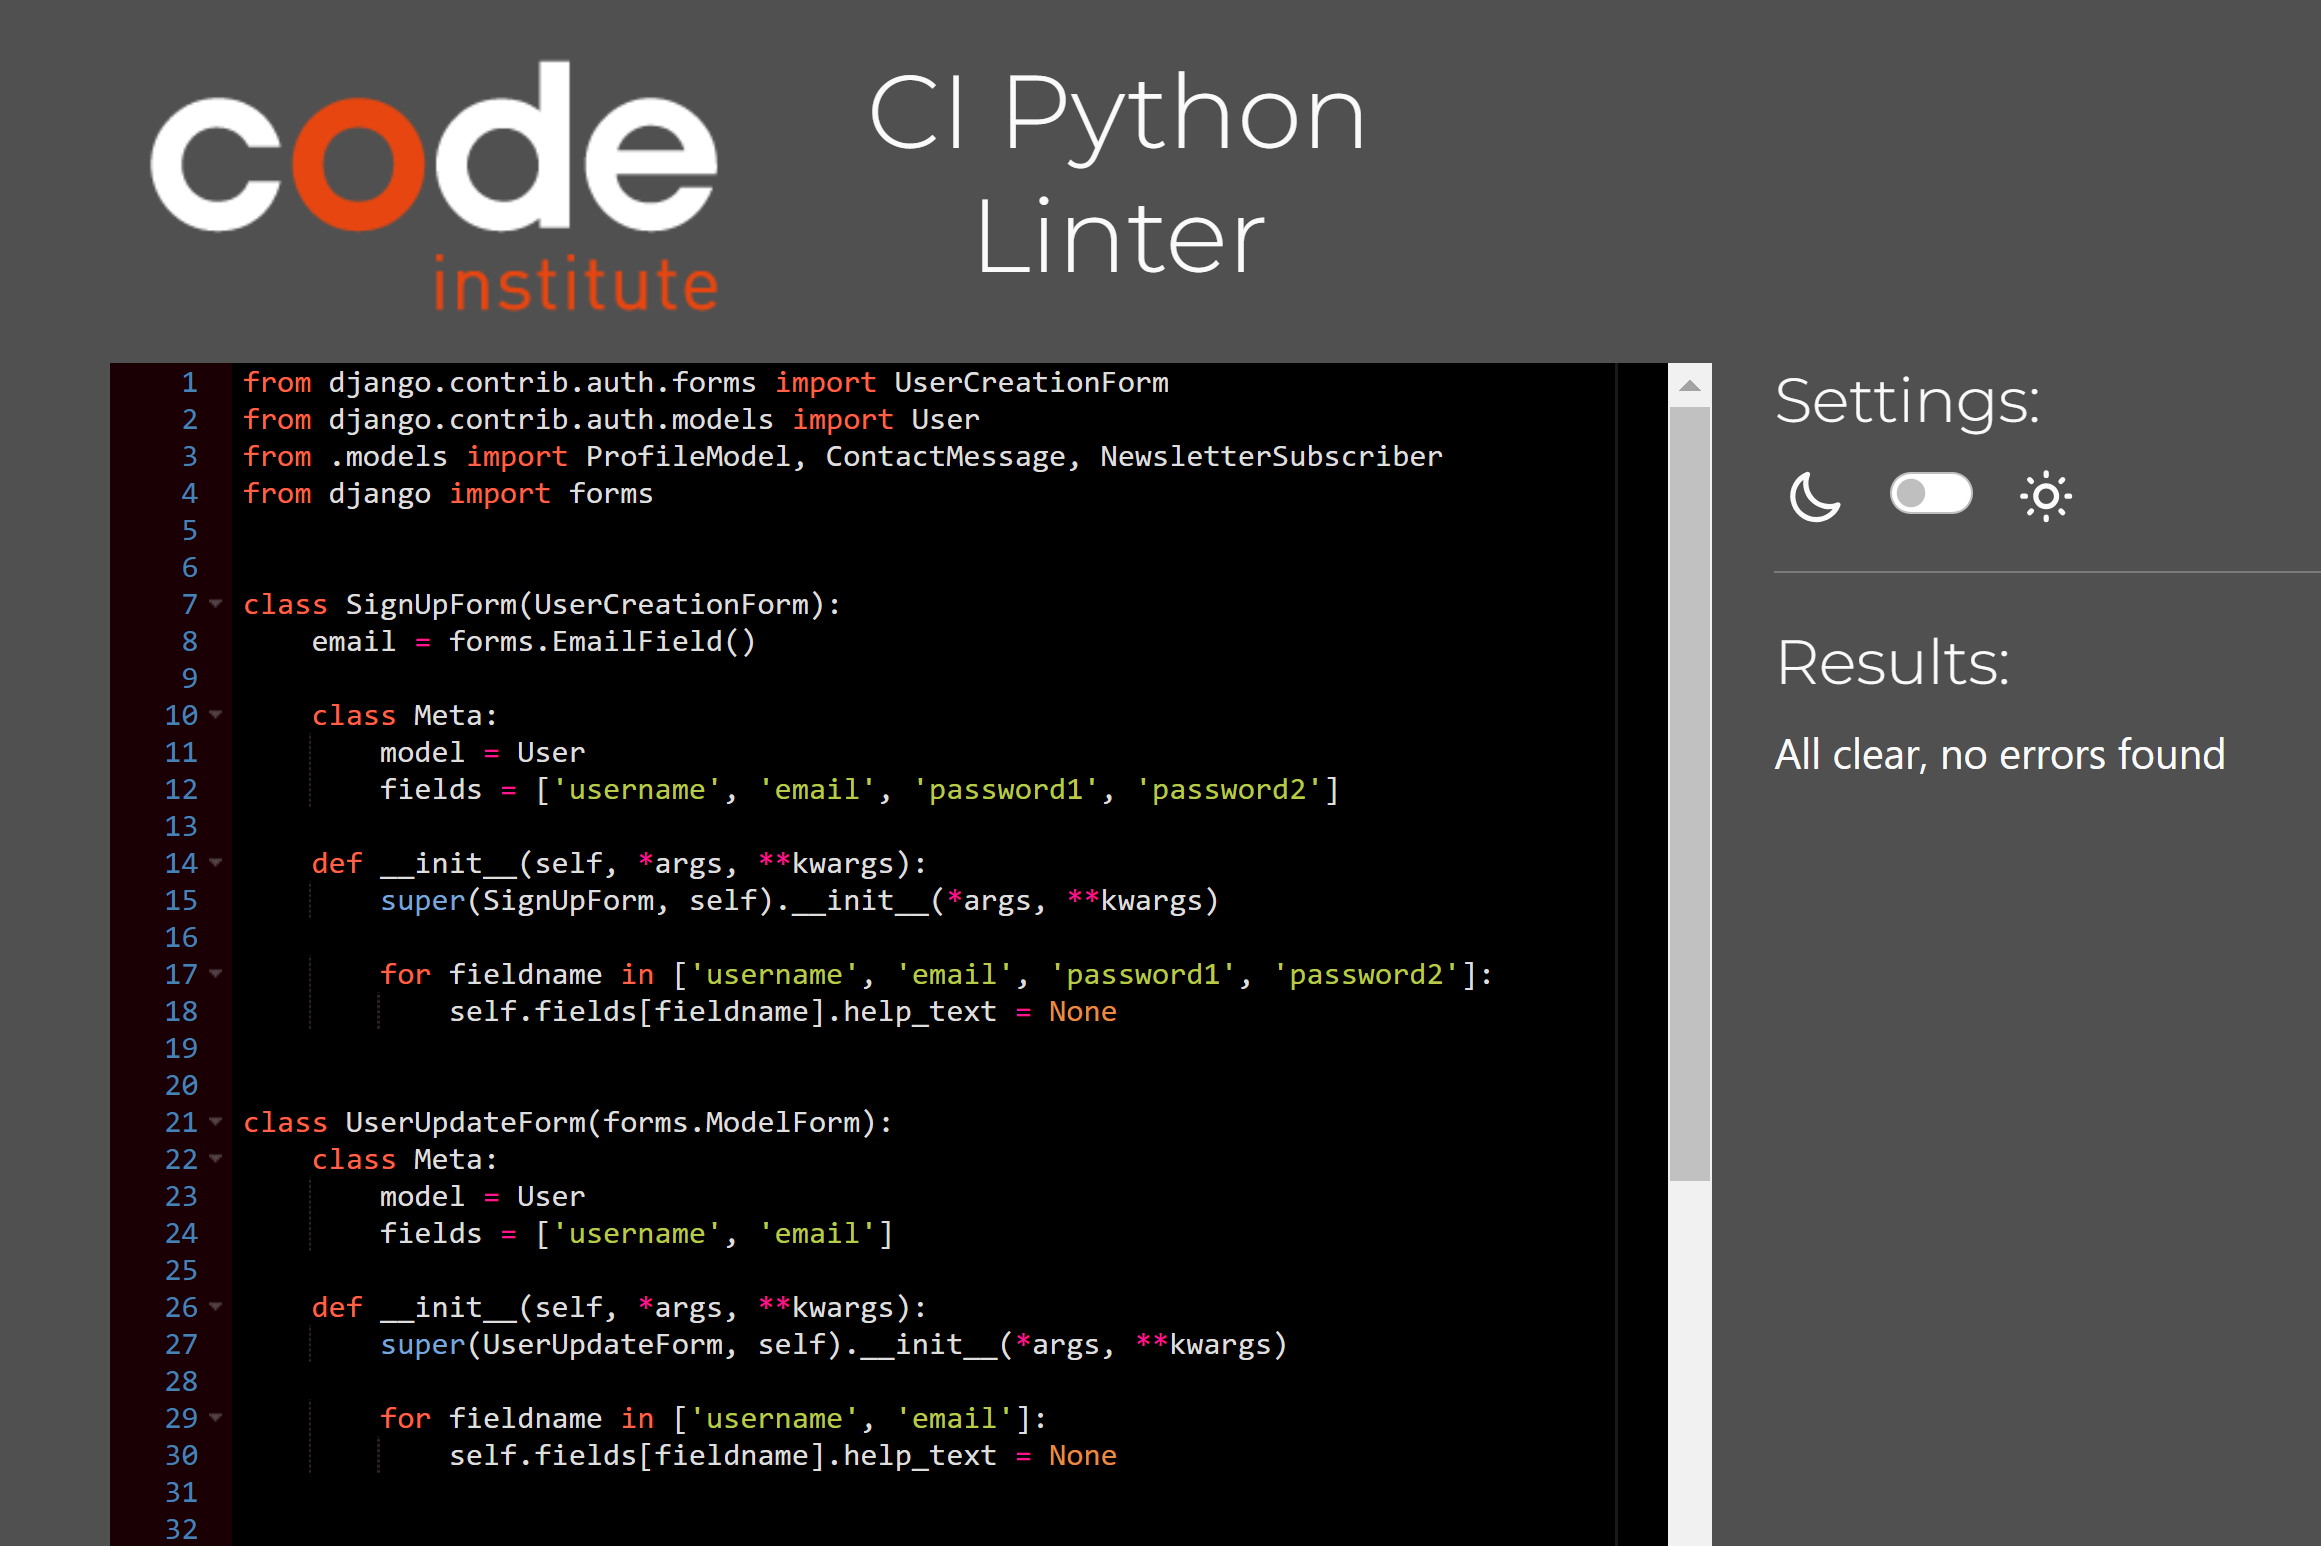
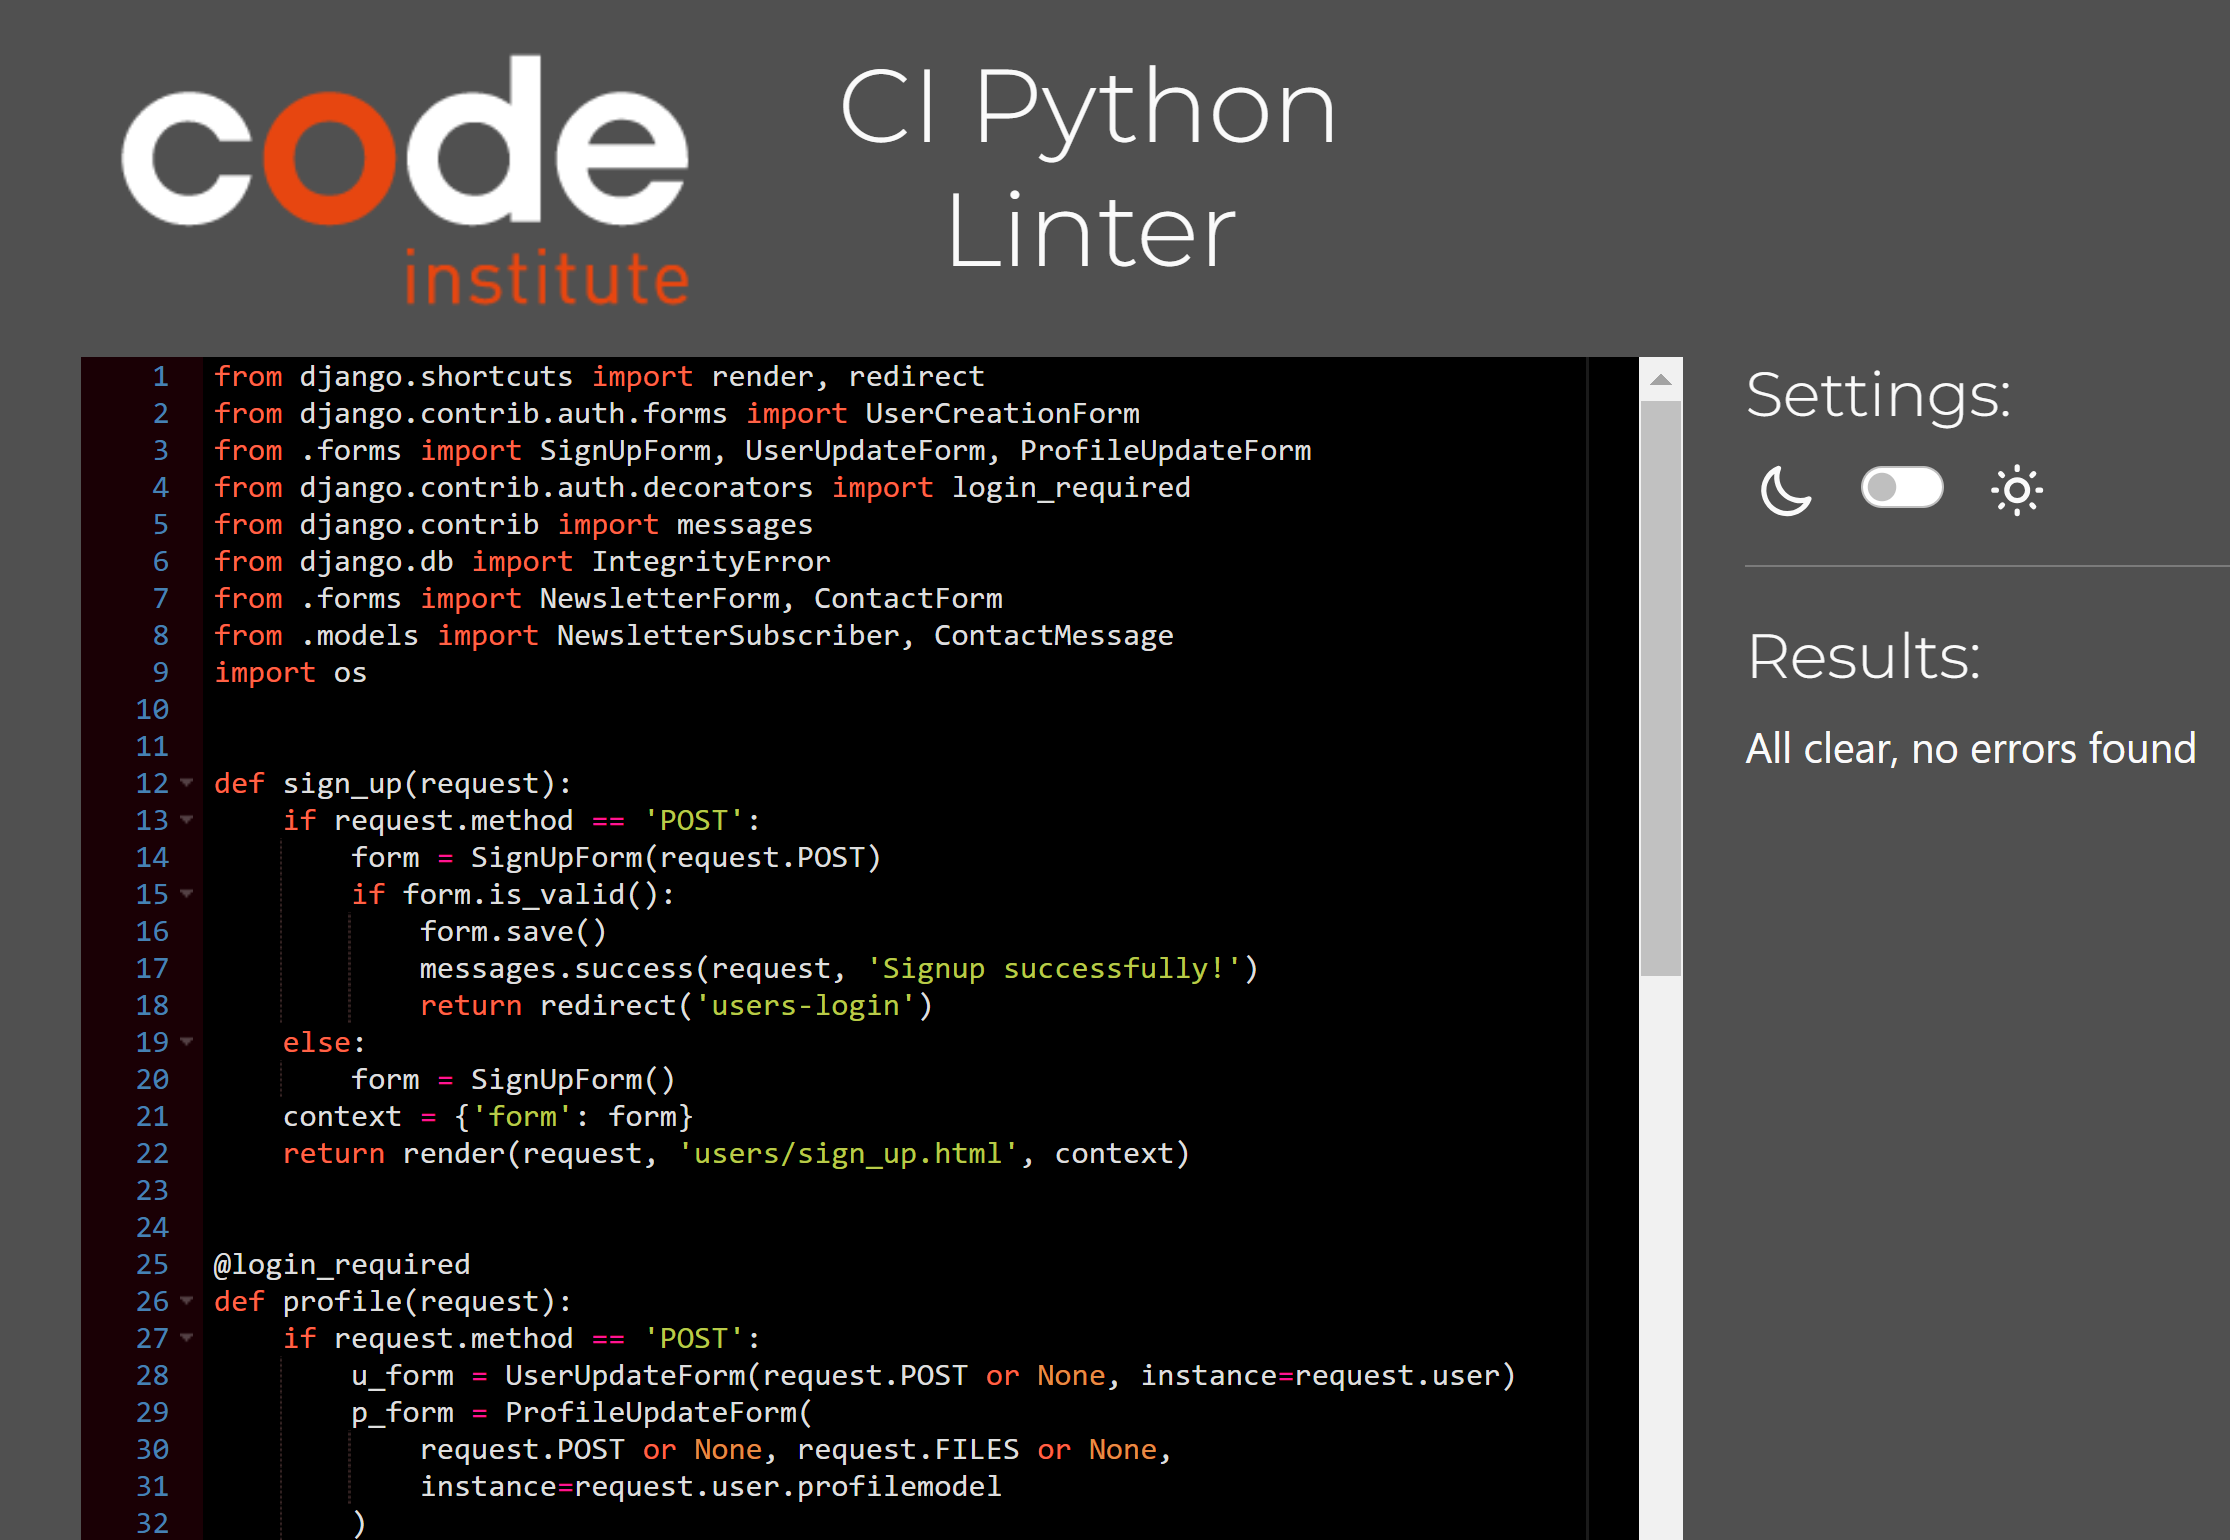
Add python testing screenshots to README

diff --git a/README.md b/README.md
@@ -261,20 +261,20 @@ I have used the recommended [PEP8 CI Python Linter](https://pep8ci.herokuapp.com
 
 | Directory | File | CI URL | Screenshot | Notes |
 | --- | --- | --- | --- | --- |
-| blog | admin.py | [PEP8 CI](https://pep8ci.herokuapp.com/https://raw.githubusercontent.com/fgit-24/Django-Blog-Project/main/blog/admin.py) | ![screenshot](documentation/validation/path-to-screenshot.png) | |
-| blog | forms.py | [PEP8 CI](https://pep8ci.herokuapp.com/https://raw.githubusercontent.com/fgit-24/Django-Blog-Project/main/blog/forms.py) | ![screenshot](documentation/validation/path-to-screenshot.png) | |
-| blog | models.py | [PEP8 CI](https://pep8ci.herokuapp.com/https://raw.githubusercontent.com/fgit-24/Django-Blog-Project/main/blog/models.py) | ![screenshot](documentation/validation/path-to-screenshot.png) | |
-| blog | urls.py | [PEP8 CI](https://pep8ci.herokuapp.com/https://raw.githubusercontent.com/fgit-24/Django-Blog-Project/main/blog/urls.py) | ![screenshot](documentation/validation/path-to-screenshot.png) | |
-| blog | views.py | [PEP8 CI](https://pep8ci.herokuapp.com/https://raw.githubusercontent.com/fgit-24/Django-Blog-Project/main/blog/views.py) | ![screenshot](documentation/validation/path-to-screenshot.png) | |
-|  | manage.py | [PEP8 CI](https://pep8ci.herokuapp.com/https://raw.githubusercontent.com/fgit-24/Django-Blog-Project/main/manage.py) | ![screenshot](documentation/validation/path-to-screenshot.png) | |
-| myproject | settings.py | [PEP8 CI](https://pep8ci.herokuapp.com/https://raw.githubusercontent.com/fgit-24/Django-Blog-Project/main/myproject/settings.py) | ![screenshot](documentation/validation/path-to-screenshot.png) |Line 41 is CSRF_TRUSTED_ORIGINS |
-| myproject | urls.py | [PEP8 CI](https://pep8ci.herokuapp.com/https://raw.githubusercontent.com/fgit-24/Django-Blog-Project/main/myproject/urls.py) | ![screenshot](documentation/validation/path-to-screenshot.png) | |
-| users | admin.py | [PEP8 CI](https://pep8ci.herokuapp.com/https://raw.githubusercontent.com/fgit-24/Django-Blog-Project/main/users/admin.py) | ![screenshot](documentation/validation/path-to-screenshot.png) | |
-| users | forms.py | [PEP8 CI](https://pep8ci.herokuapp.com/https://raw.githubusercontent.com/fgit-24/Django-Blog-Project/main/users/forms.py) | ![screenshot](documentation/validation/path-to-screenshot.png) | |
-| users | models.py | [PEP8 CI](https://pep8ci.herokuapp.com/https://raw.githubusercontent.com/fgit-24/Django-Blog-Project/main/users/models.py) | ![screenshot](documentation/validation/path-to-screenshot.png) | |
-| users | signals.py | [PEP8 CI](https://pep8ci.herokuapp.com/https://raw.githubusercontent.com/fgit-24/Django-Blog-Project/main/users/signals.py) | ![screenshot](documentation/validation/path-to-screenshot.png) | |
-| users | urls.py | [PEP8 CI](https://pep8ci.herokuapp.com/https://raw.githubusercontent.com/fgit-24/Django-Blog-Project/main/users/urls.py) | ![screenshot](documentation/validation/path-to-screenshot.png) | |
-| users | views.py | [PEP8 CI](https://pep8ci.herokuapp.com/https://raw.githubusercontent.com/fgit-24/Django-Blog-Project/main/users/views.py) | ![screenshot](documentation/validation/path-to-screenshot.png) | |
+| blog | admin.py | [PEP8 CI](https://pep8ci.herokuapp.com/https://raw.githubusercontent.com/fgit-24/Django-Blog-Project/main/blog/admin.py) | ![screenshot](documentation/testing/python/blog_admin.png) | |
+| blog | forms.py | [PEP8 CI](https://pep8ci.herokuapp.com/https://raw.githubusercontent.com/fgit-24/Django-Blog-Project/main/blog/forms.py) | ![screenshot](documentation/testing/python/blog_forms.png) | |
+| blog | models.py | [PEP8 CI](https://pep8ci.herokuapp.com/https://raw.githubusercontent.com/fgit-24/Django-Blog-Project/main/blog/models.py) | ![screenshot](documentation/testing/python/blog_models.png) | |
+| blog | urls.py | [PEP8 CI](https://pep8ci.herokuapp.com/https://raw.githubusercontent.com/fgit-24/Django-Blog-Project/main/blog/urls.py) | ![screenshot](documentation/testing/python/manage.png) | |
+| blog | views.py | [PEP8 CI](https://pep8ci.herokuapp.com/https://raw.githubusercontent.com/fgit-24/Django-Blog-Project/main/blog/views.py) | ![screenshot](documentation/testing/python/blog_views.png) | |
+|  | manage.py | [PEP8 CI](https://pep8ci.herokuapp.com/https://raw.githubusercontent.com/fgit-24/Django-Blog-Project/main/manage.py) | ![screenshot](documentation/testing/python/manage.png) | |
+| myproject | settings.py | [PEP8 CI](https://pep8ci.herokuapp.com/https://raw.githubusercontent.com/fgit-24/Django-Blog-Project/main/myproject/settings.py) | ![screenshot](documentation/testing/python/my_project_settings.png) |Line 41 is CSRF_TRUSTED_ORIGINS |
+| myproject | urls.py | [PEP8 CI](https://pep8ci.herokuapp.com/https://raw.githubusercontent.com/fgit-24/Django-Blog-Project/main/myproject/urls.py) | ![screenshot](documentation/testing/python/my_project_urls.png) | |
+| users | admin.py | [PEP8 CI](https://pep8ci.herokuapp.com/https://raw.githubusercontent.com/fgit-24/Django-Blog-Project/main/users/admin.py) | ![screenshot](documentation/testing/python/users_admin.png) | |
+| users | forms.py | [PEP8 CI](https://pep8ci.herokuapp.com/https://raw.githubusercontent.com/fgit-24/Django-Blog-Project/main/users/forms.py) | ![screenshot](documentation/testing/python/users_forms.png) | |
+| users | models.py | [PEP8 CI](https://pep8ci.herokuapp.com/https://raw.githubusercontent.com/fgit-24/Django-Blog-Project/main/users/models.py) | ![screenshot](documentation/testing/python/user_models.png) | |
+| users | signals.py | [PEP8 CI](https://pep8ci.herokuapp.com/https://raw.githubusercontent.com/fgit-24/Django-Blog-Project/main/users/signals.py) | ![screenshot](documentation/testing/python/users_signals.png) | |
+| users | urls.py | [PEP8 CI](https://pep8ci.herokuapp.com/https://raw.githubusercontent.com/fgit-24/Django-Blog-Project/main/users/urls.py) | ![screenshot](documentation/testing/python/users_urls.png) | |
+| users | views.py | [PEP8 CI](https://pep8ci.herokuapp.com/https://raw.githubusercontent.com/fgit-24/Django-Blog-Project/main/users/views.py) | ![screenshot](documentation/testing/python/users_views.png) | |
 
 
 ## Browser Compatibility
